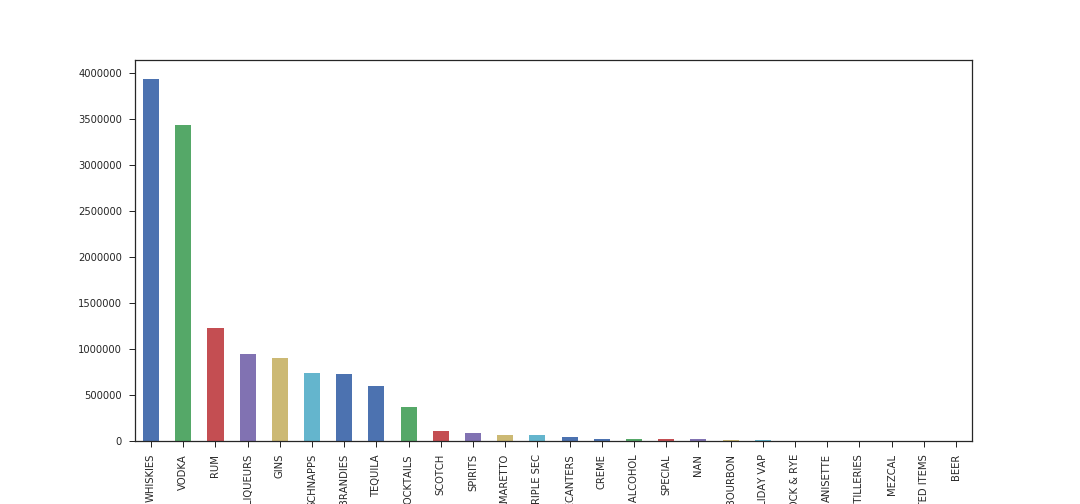
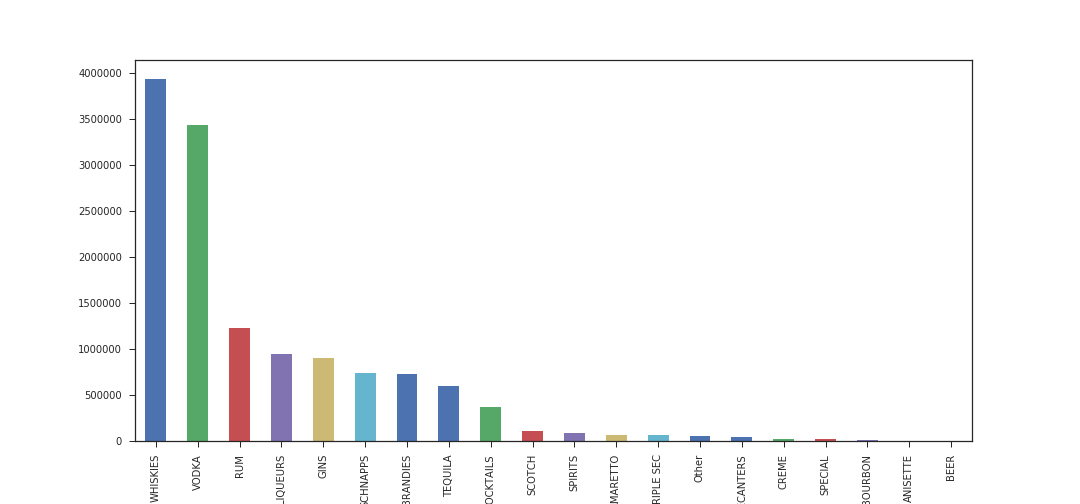
Added some actual stats stuff

Changed region(s): [[0.1222, 0.1488, 0.8861, 1.0]]

diff --git a/liquor.py b/liquor.py
@@ -9,6 +9,7 @@ import pandas as pd
 import matplotlib.pyplot as plt
 from datetime import date
 import seaborn as sns
+import statsmodels.api as sm
 import re
 
 sns.set(style="ticks", color_codes=True)
@@ -22,7 +23,7 @@ get_ipython().run_line_magic('matplotlib', 'inline')
 liquor = pd.read_csv('data/Iowa_Liquor_Sales.csv', parse_dates=True, index_col='Invoice/Item Number', low_memory = False).sort_values('Date')
 
 
-# In[91]:
+# In[110]:
 
 
 # Makes all county names uniform (all caps, no "COUNTY")
@@ -40,7 +41,7 @@ def filterCategories(category):
         name = catNames[i]
         if re.search(cat, category.upper()):
             return name
-    return category.upper()
+    return 'Other'
 
 
 # In[92]:
@@ -56,7 +57,7 @@ if 'liquor' in locals():
     liquor = liquor.drop('Pack', axis=1)
 
 
-# In[93]:
+# In[111]:
 
 
 # Make county names uniform
@@ -113,7 +114,7 @@ income.plot(kind='bar', figsize=(15,7))
 plt.savefig('plots/CountyMedianIncome.png')
 
 
-# In[95]:
+# In[112]:
 
 
 # Plot count of each general category
@@ -379,6 +380,16 @@ ax.set_title('Median Household Income vs Liquor Sales Per Capita by County')
 fig.savefig('plots/SaleIncome.png')
 
 
+# In[118]:
+
+
+X = counties['Median Household Income']
+Y = counties['Sales Per Capita']
+
+model = sm.OLS(Y,X).fit()
+print(model.summary())
+
+
 # In[67]:
 
 
@@ -387,6 +398,16 @@ fig = sns.lmplot(y='Volume Per Capita', x='Median Household Income',data=countie
 ax = plt.gca()
 ax.set_title('Median Household Income vs Liquor Volume Per Capita by County')
 fig.savefig('plots/VolumeIncome.png')
+
+
+# In[119]:
+
+
+X = counties['Median Household Income']
+Y = counties['Volume Per Capita']
+
+model = sm.OLS(Y,X).fit()
+print(model.summary())
 
 
 # In[65]:
@@ -399,6 +420,16 @@ ax.set_title('Median Household Income vs Volume Per Sale by County')
 fig.savefig('plots/SaleVolumeIncome.png')
 
 
+# In[120]:
+
+
+X = counties['Median Household Income']
+Y = counties['Volume Per Sale']
+
+model = sm.OLS(Y,X).fit()
+print(model.summary())
+
+
 # In[63]:
 
 
@@ -407,6 +438,16 @@ fig = sns.lmplot(y='Spent Per Liter', x='Median Household Income',data=counties,
 ax = plt.gca()
 ax.set_title('Median Household Income vs Cost Per Liter by County')
 fig.savefig('plots/CostIncome.png')
+
+
+# In[121]:
+
+
+X = counties['Median Household Income']
+Y = counties['Spent Per Liter']
+
+model = sm.OLS(Y,X).fit()
+print(model.summary())
 
 
 # In[109]:
@@ -419,6 +460,16 @@ ax.set_title('Median Household Income vs Spent Per Sale by County')
 fig.savefig('plots/SpentIncome.png')
 
 
+# In[122]:
+
+
+X = counties['Median Household Income']
+Y = counties['Spent Per Sale']
+
+model = sm.OLS(Y,X).fit()
+print(model.summary())
+
+
 # In[62]:
 
 
@@ -429,6 +480,16 @@ ax.set_title('Sales Per Capita vs Cost Per Liter by County')
 fig.savefig('plots/CostSales.png')
 
 
+# In[123]:
+
+
+X = counties['Sales Per Capita']
+Y = counties['Spent Per Liter']
+
+model = sm.OLS(Y,X).fit()
+print(model.summary())
+
+
 # In[61]:
 
 
@@ -437,6 +498,16 @@ fig = sns.lmplot(x='Estimated Population', y='Sales Per Capita',data=counties,fi
 ax = plt.gca()
 ax.set_title('Sales Per Capita vs Estimated Population by County')
 fig.savefig('plots/PopSales.png')
+
+
+# In[124]:
+
+
+X = counties['Estimated Population']
+Y = counties['Sales Per Capita']
+
+model = sm.OLS(Y,X).fit()
+print(model.summary())
 
 
 # In[72]:
